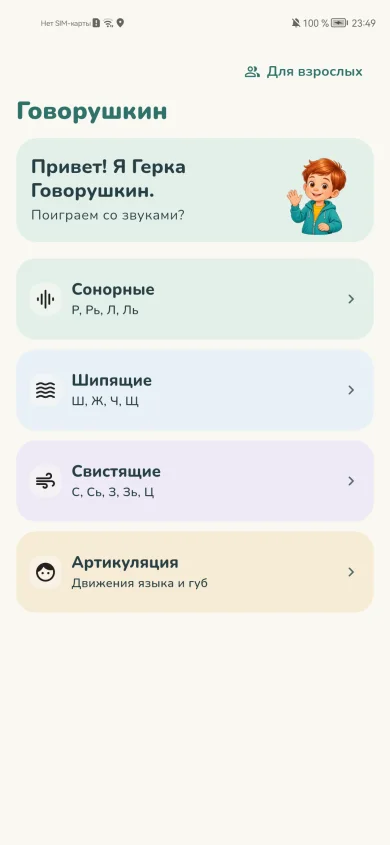
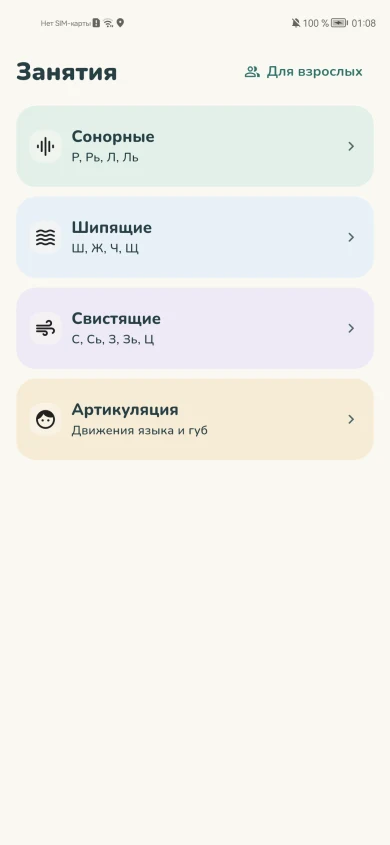
docs(site): show the Google sign-in and activities screens

diff --git a/public/index.html b/public/index.html
@@ -12,7 +12,7 @@
     <meta property="og:type" content="website">
     <meta property="og:locale" content="ru_RU">
     <meta property="og:title" content="Говорушкин — домашняя речевая практика">
-    <meta property="og:description" content="Приложение для домашней речевой практики детей 4–7 лет. Герка Говорушкин, четыре направления и текущие экраны проекта.">
+    <meta property="og:description" content="Приложение для домашней речевой практики детей 4–7 лет. Вход родителя, знакомство с Геркой Говорушкиным и четыре направления занятий.">
     <meta property="og:url" content="https://4ictota.github.io/govorushkin/">
     <meta property="og:image" content="https://4ictota.github.io/govorushkin/assets/icon.png">
     <meta property="og:image:width" content="192">
@@ -79,8 +79,12 @@
           <h2 id="screens-title">Экраны приложения</h2>
           <div class="screen-grid">
             <figure class="screen-card sonorants">
-              <figcaption><h3>Главная</h3></figcaption>
-              <div class="phone"><img src="./assets/screens/home.webp" alt="Главная приложения Говорушкин: приветствие Герки Говорушкина, четыре направления и вход для взрослых" width="390" height="845" loading="lazy" decoding="async"></div>
+              <figcaption><h3>Вход</h3></figcaption>
+              <div class="phone"><img src="./assets/screens/login.webp" alt="Экран входа с приветствием Герки Говорушкина и кнопкой Войти через Google" width="390" height="845" loading="lazy" decoding="async"></div>
+            </figure>
+            <figure class="screen-card whistling">
+              <figcaption><h3>Занятия</h3></figcaption>
+              <div class="phone"><img src="./assets/screens/home.webp" alt="Экран Занятия с четырьмя направлениями и кнопкой Для взрослых" width="390" height="845" loading="lazy" decoding="async"></div>
             </figure>
             <figure class="screen-card sibilants">
               <figcaption><h3>Звук Р</h3></figcaption>
@@ -101,7 +105,7 @@
         <section class="about section" id="about" aria-labelledby="about-title">
           <div class="about-copy">
             <h2 id="about-title">Что уже есть</h2>
-            <p>Главная, четыре направления и выбор звука. Упражнения готовятся.</p>
+            <p>Подготовили вход через аккаунт родителя в Google. После входа открываются четыре направления и выбор звука. Упражнения готовятся.</p>
             <p>Далее — упражнения с картинками и озвучкой, запись и прослушивание голоса.</p>
           </div>
           <div class="project-note" id="contact">

diff --git a/public/styles.css b/public/styles.css
@@ -85,7 +85,7 @@ nav a:hover, .site-footer a:hover, .text-link:hover { text-decoration: underline
 .section { border-top: 1px solid var(--line); margin-top: 48px; padding-top: 48px; }
 .section-heading { display: grid; grid-template-columns: 1fr 1fr; gap: 32px; align-items: end; }
 .screens > h2 { margin-bottom: 24px; }
-.screen-grid { display: grid; grid-template-columns: repeat(3, minmax(0, 1fr)); gap: 20px; }
+.screen-grid { display: grid; grid-template-columns: repeat(4, minmax(0, 1fr)); gap: 20px; }
 .screen-card { display: flex; flex-direction: column; align-items: center; gap: 24px; min-width: 0; padding: 28px 20px; border-radius: var(--card-radius); }
 .screen-card figcaption { width: 100%; flex: 1; }
 .phone { width: min(100%, 238px); overflow: hidden; border: 6px solid #263e43; border-radius: 28px; background: #faf8f2; }
@@ -102,7 +102,7 @@ nav a:hover, .site-footer a:hover, .text-link:hover { text-decoration: underline
 .license-page pre { white-space: pre-wrap; overflow-wrap: anywhere; font: inherit; font-size: .9375rem; color: var(--muted); max-width: 52rem; }
 
 @media (max-width: 60rem) {
-  .category-grid { grid-template-columns: repeat(2, minmax(0, 1fr)); }
+  .category-grid, .screen-grid { grid-template-columns: repeat(2, minmax(0, 1fr)); }
   .hero { gap: 28px; }
   .actions { align-items: stretch; }
   .screen-card { padding: 24px 16px; }

diff --git a/docs/STATE.md b/docs/STATE.md
@@ -1,58 +1,22 @@
 # Состояние сайта
 
-18.11.2026. Реализован редизайн «Говорушкин» по варианту «Знакомство с Геркой».
-Герой и приветствие используют полное имя — Герка Говорушкин.
+18.11.2026. Сайт знакомит с «Говорушкиным», Android-приложением для домашней
+речевой практики детей 4–7 лет по рекомендациям логопеда.
 
-## Реализовано
+- Галерея показывает вход Google, занятия, звук Р и артикуляцию. Первые два
+  экрана сняты на Honor 20, для «Занятий» использована тестовая сессия.
+- Страница сообщает о подготовке входа и упражнений. Публичного доступа к
+  аккаунтам, записи голоса, установки из RuStore и оплаты на сайте нет.
+- Публичный репозиторий [govorushkin](https://github.com/4ICTOTA/govorushkin).
+  Стабильный адрес [GitHub Pages](https://4ictota.github.io/govorushkin/).
+  Обратная связь — публичные GitHub Issues.
 
-- Общие с Android-приложением Nunito, палитра двух тем, иконка и иллюстрация
-  героя. Текстовые начертания, скругления и названия направлений согласованы.
-- Первый экран, четыре направления, три настоящих экрана приложения,
-  информация для родителей, статус проекта и публичный контакт GitHub Issues.
-  Главный экран снят на Honor после обновления приветствия в приложении.
-- Обычные HTML/CSS и локальные ресурсы, без JavaScript и внешних запросов.
-  Экраны загружаются лениво. Полная статика — **389 650 байт** без сжатия.
-- Портретная/горизонтальная компоновка, системная тёмная тема, переносы текста,
-  кликабельные элементы от 48 CSS px, skip link и видимый клавиатурный фокус.
-- Отдельная страница лицензии Nunito; исходный OFL сохранён рядом со шрифтом.
-  Тексты сокращены: убраны общие слоганы, повторные подписи к экранам
-  и блок шагов, дублировавший назначение приложения. Перечисления — через
-  запятые; точек-разделителей нет. Приветствие сохраняет полное имя героя.
+## Проверки
 
-## Последние проверки
-
-- `git diff --check`, локальные ссылки/файлы/якоря и уникальные id — успешно.
-  Файл Nunito побайтово совпадает с используемым в приложении.
-- Chromium без окна и звука: **24 конфигурации** — 1440×900, 1024×768,
-  768×1024, 844×390, 390×844 и 320×568; обе темы; текст 100% и 200%.
-  Горизонтального переполнения нет, тексты внутри доступной ширины,
-  карточки в строке равны, все изображения и шрифт загружаются.
-- Реальные нажатия: CTA «Посмотреть экраны», навигация к родителям и описанию,
-  возврат наверх, открытие лицензии. Tab/Enter переводят фокус со skip link
-  на main. Ошибок страницы, предупреждений и неудачных загрузок нет.
-- Осмотрены полные кадры desktop/mobile, тёмная версия и узкое окно с текстом
-  200%. Кадры, сценарий и журналы — в игнорируемом output/site-redesign.
-- WebKit не запускался: соответствующий браузер Playwright не установлен.
-  Реальные мобильные Safari/Chrome этим этапом не проверялись.
-
-## Публикация и границы
-
-Публичный репозиторий: https://github.com/4ICTOTA/govorushkin
-GitHub Pages: https://4ictota.github.io/govorushkin/
-
-Публичный репозиторий переименован в govorushkin; origin обновлён. Локальная
-папка speech-practice-site сохранена. URL страницы и обратной связи,
-canonical и Open Graph обновлены через [PR #3](https://github.com/4ICTOTA/govorushkin/pull/3).
-
-Исходники текущей публикации — 24a04b8; [Pages workflow](https://github.com/4ICTOTA/govorushkin/actions/runs/44178159719)
-завершился успешно. Все десять опубликованных файлов возвращают HTTP 200
-и побайтово совпадают с main. В браузере проверены главная, переход к экранам,
-лицензия и возврат; Nunito загружен, переполнения нет. Вёрстка не менялась,
-повторная полная матрица размеров не запускалась. Старый адрес Pages
-/speech-practice-site/ возвращает 404: перенаправление GitHub для него не создаёт.
-Приватное приложение и бесплатные материалы остаются в своих репозиториях.
-
-Это информационная страница, а не браузерный проигрыватель упражнений.
-Упражнения ещё готовятся; сайт не обещает готовые учётки, прогресс, запись
-голоса, выпуск в RuStore или оплату. Медицинская эффективность не заявлена.
-Платёжная интеграция и обращение в Робокассу этим этапом не менялись.
+- Chromium без окна и звука: 24 конфигурации. Размеры 1440×900, 1024×768,
+  768×1024, 844×390, 390×844 и 320×568, обе темы, текст 100% и 200%.
+- Галерея содержит четыре снимка. Снимки и локальный Nunito загружаются.
+  Проверены равные карточки, отсутствие горизонтальной прокрутки,
+  переходы к разделам, клавиатурный фокус и страница лицензии. Ошибок
+  браузера или неудачных загрузок нет. Кадры и журнал в `output/auth-update/`.
+- `git diff --check` прошёл. В публикацию входит только `public/`.

diff --git a/README.md b/README.md
@@ -7,14 +7,14 @@
 Публичный репозиторий: https://github.com/4ICTOTA/govorushkin
 
 Адрес GitHub Pages: https://4ictota.github.io/govorushkin/
-Локальная папка существующего checkout — speech-practice-site; origin указывает
-на 4ICTOTA/govorushkin. Старый адрес Pages не перенаправляется.
+Локальная папка — `govorushkin-site`. Приложение и бесплатные материалы
+находятся в отдельных репозиториях `govorushkin-app` и `govorushkin-content`.
 [Состояние исходников, проверки и публикация](docs/STATE.md).
 
 ## Устройство
 
 `public` — готовый статический сайт: HTML, CSS, локальный Nunito, иконка,
-WebP-иллюстрация и три настоящих экрана приложения. Сборки, JavaScript,
+WebP-иллюстрация и четыре экрана Android-приложения. Сборки, JavaScript,
 сетевых шрифтов, аналитики, cookies, форм и зависимостей нет. Приватный код
 приложения, backend и секреты в этот публичный репозиторий не входят.
 
@@ -40,8 +40,8 @@ CSS-переменные владеют палитрой: молочный #FAF8
 пропорции заранее; экраны ниже первого блока загружаются лениво.
 
 Брендовые изображения и снимки интерфейса перенесены из согласованного
-оформления приложения; учебных материалов здесь нет. Главный экран снят
-после обновления приветствия на Honor. Экран звука Р и артикуляция сохраняют
+оформления приложения. Снимки входа и занятий сделаны на Honor 20, для
+занятий использована тестовая сессия. Экран звука Р и артикуляция сохраняют
 действующий интерфейс. Изображения уменьшены и сохранены в WebP для сайта;
 оригиналы остаются локально вне Git.
 
